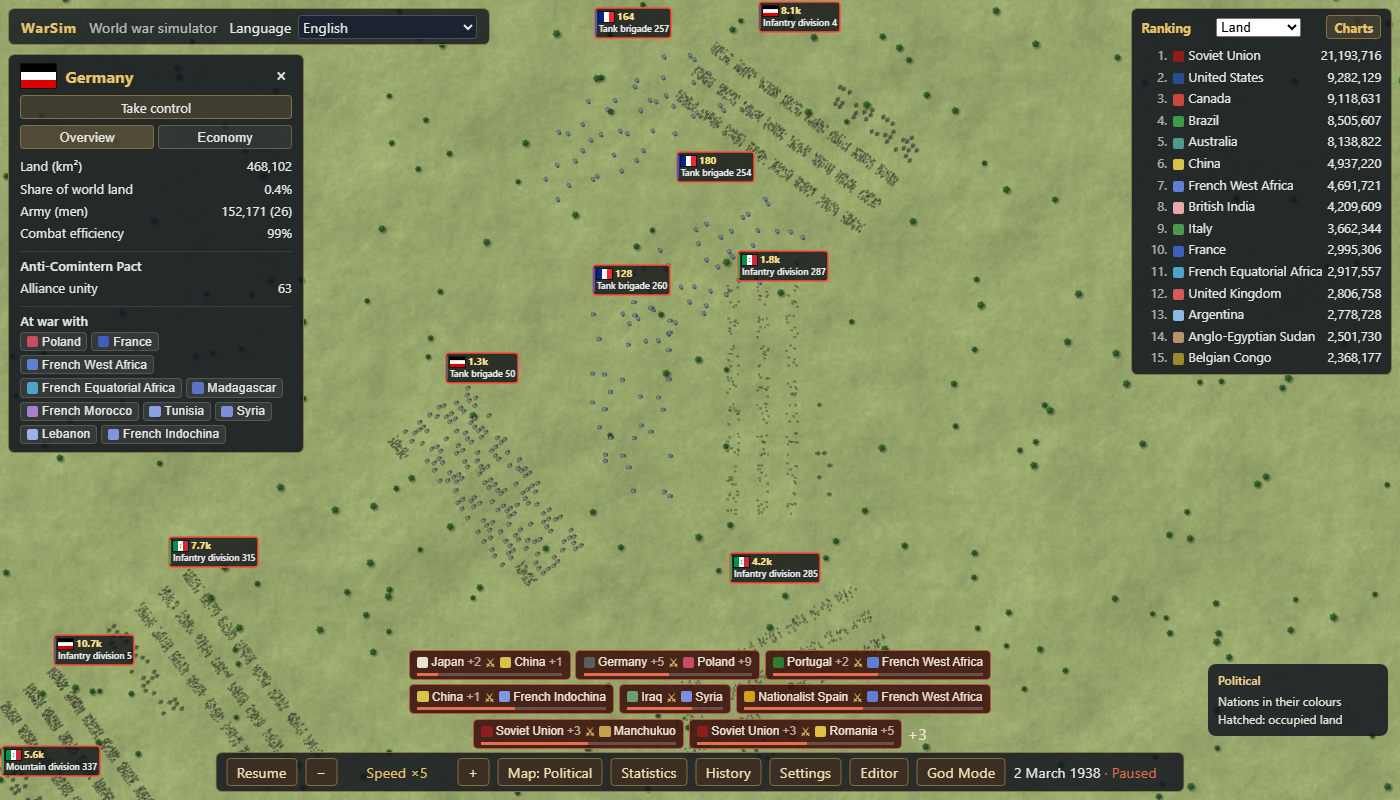
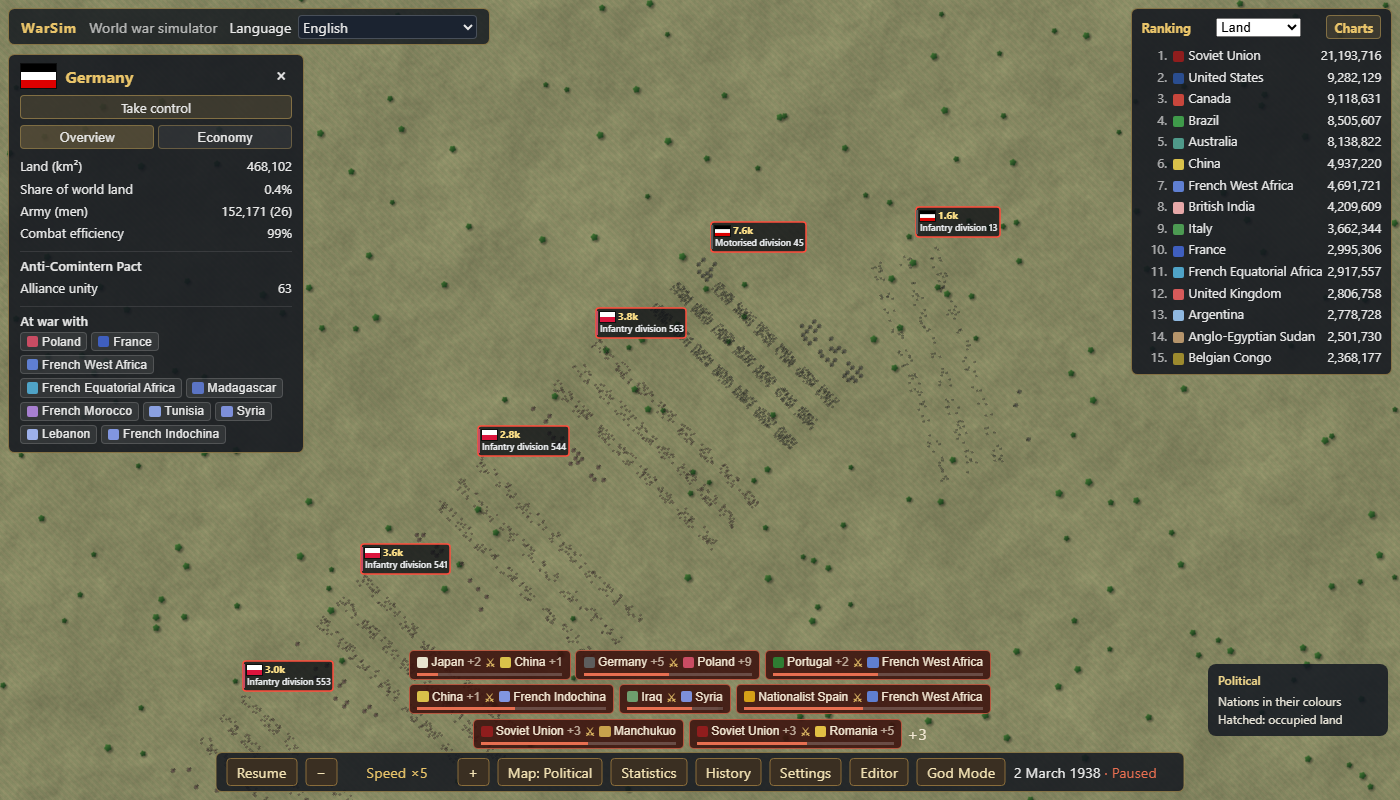
PLAN 2.14f5b1: a war's largest battle is the one whose smaller side has the most men; 2.14f5b split in four (ADR-94)
By the men of both sides, one side had under a tenth of the other in 212 of
752 answers on seed 99 (358 of 1,025 on seed 7). Ranked by the smaller side:
36 and 33. Day 60 of seed 99 now lands on 36,135 against 18,109, Germans
against Poles. The pin did not move.

diff --git a/tests/unit/warBattle.test.ts b/tests/unit/warBattle.test.ts
@@ -11,7 +11,7 @@ import { addDivision, nationId } from '../helpers/sim1938';
 
 // PLAN 2.14e (the critic's R2-B2, "nothing leads to a battle"): a click on a war's banner
 // brings its largest battle into view. This is what the worker answers: the war's largest
-// battle by men, and the point between two of its formations that stand front to front.
+// battle (by the men of its smaller side, ADR-94), and the point between two of its formations that stand front to front.
 //
 // Germany against Poland with the armies of the start taken off the map: the only formations
 // in contact are the divisions put down here, either side of the border. (Divisions of nations
@@ -56,27 +56,28 @@ describe('the largest battle of a war (PLAN 2.14e)', () => {
     expect(largestBattle(w, 999_999)).toBeNull();
   });
 
-  it('is the one with the most men; the point is between two of its formations that face each other; asking changes nothing', () => {
+  it('is the one whose smaller side has the most men (ADR-94); the point is between two of its formations that face each other; asking changes nothing', () => {
     const { s, w, north, south } = game();
-    // North: one division against one. South: two against one, the second German a little further off.
+    // North: one division against one. South: two against two, the second of each a little further off.
     const n1 = addDivision(w, GER, north[0], north[1]);
     const n2 = addDivision(w, POL, north[0] + 1, north[1]);
     const s1 = addDivision(w, GER, south[0], south[1]);
     const s2 = addDivision(w, POL, south[0] + 1, south[1]);
     const s3 = addDivision(w, GER, south[0] - 0.2, south[1] + 0.4);
+    const s4 = addDivision(w, POL, south[0] + 1.2, south[1] - 0.4);
     s.command({ kind: 'declareWar', attacker: GER, defender: POL });
     s.step(2);
     const fc = w.formations.cols;
-    expect([n1, n2, s1, s2, s3].map((f) => fc.engaged[f])).toEqual([1, 1, 1, 1, 1]);
+    expect([n1, n2, s1, s2, s3, s4].map((f) => fc.engaged[f])).toEqual([1, 1, 1, 1, 1, 1]);
     const war = warOf(w, GER, POL);
     const hash = s.hash();
     const before = w.deployedBefore;
     const deployed = w.deployed;
     const b = largestBattle(w, war)!;
     expect(b.war).toBe(war);
-    expect(b.count).toEqual([2, 1]);
-    expect(b.men).toEqual([fc.strength[s1]! + fc.strength[s3]!, fc.strength[s2]!]);
-    // The pair that are each other's nearest: s1 and s2, a cell apart (s3 is 1.26 cells from s2).
+    expect(b.count).toEqual([2, 2]);
+    expect(b.men).toEqual([fc.strength[s1]! + fc.strength[s3]!, fc.strength[s2]! + fc.strength[s4]!]);
+    // The pair that are each other's nearest: s1 and s2, a cell apart (s3 is 1.26 cells from s2, s4 from s1).
     expect(b.formations).toEqual([s1, s2]);
     const da = deployOf(w, s1, 28)!;
     const db = deployOf(w, s2, 28)!;
@@ -92,12 +93,26 @@ describe('the largest battle of a war (PLAN 2.14e)', () => {
     // The world's other wars have no battle: their armies are gone.
     for (const other of w.wars.list) if (other.id !== war) expect(largestBattle(w, other.id)).toBeNull();
 
-    // The northern battle becomes the larger one: two more Polish divisions by it.
+    // Three more Germans in the north: four against one there, more men than the south's two
+    // against two. It is not the larger battle: its smaller side is one division.
+    for (const [dx, dy] of [[-0.2, 0.4], [-0.2, -0.4], [-0.3, 0]] as const) addDivision(w, GER, north[0] + dx, north[1] + dy);
+    s.step(1);
+    const lop = largestBattle(w, war)!;
+    const northMen = fc.strength[n2]!;
+    let northGermans = 0;
+    w.formations.forEach((f) => {
+      if (fc.nation[f] === GER && Math.abs(fc.y[f]! - north[1]) < 2) northGermans += fc.strength[f]!;
+    });
+    expect(northGermans + northMen).toBeGreaterThan(lop.men[0] + lop.men[1]);
+    expect(lop.count).toEqual([2, 2]);
+    expect(lop.formations).toEqual([s1, s2]);
+
+    // Two more Polish divisions by it: four against three, and the smaller side is the larger one's now.
     addDivision(w, POL, north[0] + 1.2, north[1] + 0.5);
     addDivision(w, POL, north[0] + 1.2, north[1] - 0.5);
     s.step(1);
     const c = largestBattle(w, war)!;
-    expect(c.count).toEqual([1, 3]);
+    expect(c.count).toEqual([4, 3]);
     expect(c.formations).toEqual([n1, n2]);
     expect(c.y).toBeCloseTo(north[1], 2);
   });
@@ -116,7 +131,7 @@ describe('the largest battle of a war on a front of 60 days (PLAN 2.14f5a)', () 
     s.command({ kind: 'declareWar', attacker: GER, defender: POL });
     /** Half the view less 50 px, in cells (a cell is 19.57 km). */
     const HALF = { w: (700 - 50) * 20 / 19_570, h: (400 - 50) * 20 / 19_570 };
-    const n = { asked: 0, battles: 0, mutual: 0, oneWay: 0, neither: 0, outside: 0, germanPolish: 0, widest: 0 };
+    const n = { asked: 0, battles: 0, mutual: 0, oneWay: 0, neither: 0, outside: 0, germanPolish: 0, widest: 0, uneven: 0 };
     const outside: string[] = [];
     let last: WarBattleSite | null = null;
     s.step(24 * 60, (w) => {
@@ -133,6 +148,7 @@ describe('the largest battle of a war on a front of 60 days (PLAN 2.14f5a)', () 
         if (!b) continue;
         n.battles++;
         if (ours) n.germanPolish++;
+        if (Math.min(b.men[0], b.men[1]) * 10 < Math.max(b.men[0], b.men[1])) n.uneven++;
         const [a, d] = b.formations;
         const rank = (contacts.get(a) === d ? 1 : 0) + (contacts.get(d) === a ? 1 : 0);
         if (rank === 2) n.mutual++;
@@ -161,11 +177,14 @@ describe('the largest battle of a war on a front of 60 days (PLAN 2.14f5a)', () 
     console.log(
       `60 days of Germany against Poland (seed 99), every six hours, every war: asked ${n.asked} times, a battle ${n.battles} times (${n.germanPolish} of Germany against Poland); ` +
         `the two named are each other's nearest enemy in ${n.mutual}, one the other's in ${n.oneWay}, neither in ${n.neither}; ` +
-        `their blocks at most ${(n.widest * 19.57).toFixed(1)} km apart; not whole in the view ${n.outside} times`,
+        `their blocks at most ${(n.widest * 19.57).toFixed(1)} km apart; not whole in the view ${n.outside} times; ` +
+        `one side under a tenth of the other in ${n.uneven}`,
     );
     expect(outside).toEqual([]);
     expect(n.battles).toBeGreaterThan(500);
     expect(n.germanPolish).toBeGreaterThan(200);
+    // The largest battle is one of two sides (ADR-94): by the men of both it was 212 of 752 with one side under a tenth of the other, 36 by the smaller side's.
+    expect(n.uneven).toBeLessThan(n.battles / 10);
     // The front is there on the last day: the banner of this war leads somewhere.
     expect(last).not.toBeNull();
   });

diff --git a/src/sim/systems/warBattle.ts b/src/sim/systems/warBattle.ts
@@ -5,7 +5,7 @@
  * Battles are derived each hour and not kept (`findBattles`): here they are worked out again
  * for one war from the state, the formations' `engaged` flags and places. A battle of the war
  * is a set of formations of its two sides joined by contacts between the sides (within
- * CONTACT_CELLS); the largest is the one with the most men. Reads only: nothing of the state
+ * CONTACT_CELLS); the largest is the one whose smaller side has the most men (ADR-94). Reads only: nothing of the state
  * and nothing of the hour's deployments changes (`deployOf` fills its cache, as the snapshot
  * does).
  */
@@ -15,7 +15,7 @@ import { cellDist, CONTACT_CELLS, contactsOf, deployOf, elementIndex, slotCount 
 
 export type WarBattleSite = Omit<WarBattle, 'tick'>;
 
-/** The largest battle of war `warId` (by men; of equals, the one with the lowest formation id), or null when none of its formations are in contact across its sides. */
+/** The largest battle of war `warId` (by the men of its smaller side, then of both; of equals, the one with the lowest formation id), or null when none of its formations are in contact across its sides. */
 export function largestBattle(world: World, warId: number): WarBattleSite | null {
   const war = world.wars.list.find((w) => w.id === warId);
   if (!war) return null;
@@ -47,11 +47,20 @@ export function largestBattle(world: World, warId: number): WarBattleSite | null
     }
   }
   if (pairs.length === 0) return null;
-  // Men by battle (its root is its lowest formation id).
-  const men = new Map<number, number>();
-  for (const f of parent.keys()) men.set(find(f), (men.get(find(f)) ?? 0) + c.strength[f]!);
+  // Men by battle and side (a battle's root is its lowest formation id). A battle is as large as its smaller side (ADR-94).
+  const men = new Map<number, [number, number]>();
+  for (const f of parent.keys()) {
+    const m = men.get(find(f)) ?? [0, 0];
+    m[sideOf(c.nation[f]!)]! += c.strength[f]!;
+    men.set(find(f), m);
+  }
+  const larger = (r: number, than: number): boolean => {
+    const [a, b] = [men.get(r)!, men.get(than)!];
+    const d = Math.min(a[0], a[1]) - Math.min(b[0], b[1]) || a[0] + a[1] - b[0] - b[1];
+    return d > 0 || (d === 0 && r < than);
+  };
   let root = -1;
-  for (const [r, m] of men) if (root < 0 || m > men.get(root)! || (m === men.get(root)! && r < root)) root = r;
+  for (const r of men.keys()) if (root < 0 || larger(r, root)) root = r;
   const count: [number, number] = [0, 0];
   const strength: [number, number] = [0, 0];
   for (const f of parent.keys()) {

diff --git a/tests/e2e/toBattle1938.spec.ts b/tests/e2e/toBattle1938.spec.ts
@@ -219,6 +219,8 @@ test('after 60 days of Germany against Poland the banner leads to two formations
   expect(seen.battle.war).toBe(war);
   // A battle of the front, not a pair: more than two formations in it.
   expect(seen.battle.count[0] + seen.battle.count[1]).toBeGreaterThan(2);
+  // And one of two sides (ADR-94): by the men of both it was 67,984 against 472 on this day.
+  expect(Math.min(...seen.battle.men) * 10).toBeGreaterThan(Math.max(...seen.battle.men));
   expect(seen.cam.cx).toBeCloseTo(seen.battle.x, 6);
   expect(seen.cam.cy).toBeCloseTo(seen.battle.y, 6);
   expect(seen.m).toBeCloseTo(20, 1);

diff --git a/PLAN.md b/PLAN.md
@@ -1964,16 +1964,37 @@ quick sweep as a smoke test.
         a battle with no two that are each other's nearest has no test of its own and the
         camera does not widen for it; a pair across a strait (blocks on their shores) was
         not looked for.
-      - [ ] 2.14f5b Two decisions, each with an ADR: whether the jump becomes a flight (the
-        camera has an eased zoom and no eased pan, ADR-91), and whether a banner shows that
-        its war has a battle (ADR-91: not sent with the statistics; `contactsOf` is kept
-        for the hour, so one pass over it may do). Built or "not now, because".
-        From 2.14f5a (ADR-93), for the same ADRs: the banner names the two leaders and the
-        click may land on their allies (Germany and Poland: Italians against the French);
-        count how many of the 752 landings have no leader's formation, and decide whether
-        the battle of a leader comes first or the banner says whose battle it leads to.
-        And "largest by men" was 67,984 against 472: decide whether the smaller side's men
-        count instead, or say why not.
+      - [ ] 2.14f5b Four decisions, each with an ADR. **Split 2026-10-05** in four, one cause
+        a commit:
+        - [x] 2.14f5b1 What "largest" means: 67,984 against 472 was the largest battle by
+          men. Decide whether the smaller side's men count instead, or say why not.
+          Done 2026-10-05 (ADR-94). *Measured* (a probe not kept; seeds 99 and 7, 752 and
+          1,025 answers): by the men of both, one side was under a tenth of the other in 212
+          and 358 answers, under a hundredth in 53 and 103. *Decided and built:* the largest
+          battle is the one whose smaller side has the most men, then by the men of both,
+          then the lowest id. Under a tenth now: 36 and 33. *Tests:* unit, the second of
+          `warBattle.test.ts` restated (four against one with more men does not beat two
+          against two; four against three does), seen to fail with the old rule; the 60-day
+          test asks for under a tenth of the answers so uneven (36 of 752). e2e, the second
+          of `toBattle1938`: day 60 lands on 36,135 against 18,109, German motorised
+          division 45 and Polish infantry division 563. Picture looked at. The pin did not
+          move.
+        - [ ] 2.14f5b2 Whose battle the banner leads to. The banner names the two leaders
+          and the click may land on their allies. *Measured 2026-10-05 with 2.14f5b1* (the
+          rule of ADR-94; seed 99 and seed 7): neither of the two formations is a leader's
+          in 46 of 752 and 41 of 1,025 landings, one of them in 96 and 349, both in 610 and
+          635. In every one of the 1,777 answers the war had, somewhere, a pair of each
+          other's nearest with a leader's formation in it. Decide whether a leader's battle
+          or a leader's pair comes first, or the banner says whose battle it leads to.
+          AT: unit, on the 60-day front: the count of landings with no leader's formation,
+          at the limit decided; failing first if the rule changes.
+        - [ ] 2.14f5b3 Whether a banner shows that its war has a battle (ADR-91: not sent
+          with the statistics; `contactsOf` is kept for the hour, so one pass over it may
+          do). *Measured 2026-10-05:* one pass over `contactsOf` (a formation and its
+          nearest enemy on the two sides of the war) agreed with "`largestBattle` is not
+          null" in all 1,708 and 1,796 askings. Built or "not now, because".
+        - [ ] 2.14f5b4 Whether the jump becomes a flight (the camera has an eased zoom and
+          no eased pan, ADR-91). Built or "not now, because".
       - [ ] 2.14f5c How far a block stands from its own formation. From 2.14f4: the longest
         hop of a block in the 60 days was 50 km, more than contact (29 km). Decide, with an
         ADR, whether `deployOf` limits it. *Measured 2026-10-05 with 2.14f5a* (seed 99, days

diff --git a/DECISIONS.md b/DECISIONS.md
@@ -167,6 +167,46 @@ level directly; hillshade at higher zoom adds procedural detail (SPEC §8 T2/T3)
 runtime. Regenerating assets is idempotent (`npm run data -- --check` fails on drift), and
 `tests/unit/data-manifest.test.ts` verifies sha256, sizes, known places and pyramid consistency.
 
+### ADR-94 · 2026-10-05 · accepted — A war's largest battle is the one whose smaller side has the most men (PLAN 2.14f5b1)
+
+- **Context:** ADR-91 sends a click on a war's banner to its largest battle, "by men": the
+  men of both sides. ADR-93 saw where that leads on day 60 of seed 99: 67,984 men against
+  472, eleven formations against three nearly spent ones.
+- **Measured** (a probe not kept; 60 days of Germany against Poland and the wars the AI
+  declares, every six hours, every war; seed 99: 752 answers, seed 7: 1,025): by the men of
+  both, one side had under a tenth of the other in 212 and 358 answers (28% and 35%), under
+  a hundredth in 53 and 103. The median of smaller to larger was 0.28 and 0.19. A war had 8
+  battles at a time in the mean (6,314 and 7,988 in all). Ranked by the smaller side, another
+  battle comes first in 319 and 545 answers, and under a tenth are 36 and 33 (5% and 3%),
+  under a hundredth 3 and 0.
+- **Decision:** the largest battle is the one whose smaller side has the most men; of
+  equals, the one with more men on both sides; of equals, the lowest formation id
+  (`largestBattle`). A battle is a fight of two sides, and what the click should show is
+  where both stand in strength: a large army over a remnant shows one side's figures and a
+  few of the other's. The pair inside the battle is chosen as before (ADR-91, ADR-93).
+- **Not chosen:** the most even battle (two battalions of equal strength would win over two
+  armies); the product of the sides (it says the same as the smaller side where it matters
+  and needs a second sentence to explain).
+- **Tests:** unit, `warBattle.test.ts`. The second test is restated: two against two in the
+  south stays the largest when four stand against one in the north with more men in all,
+  and gives way when the north is four against three. Seen to fail with the old rule at
+  the four against one. The 60-day test counts the answers with one side under a tenth: 36
+  of 752, and asks for under a tenth of them (212 before). With seed 7 in its place, once,
+  it passes too. e2e, the second test of `toBattle1938`: the landing of day 60 has no side
+  under a tenth of the other.
+- **On the screen** (seed 99, day 60): 6 formations against 6, 36,135 men against 18,109;
+  the camera lands between the German motorised division 45 and the Polish infantry
+  division 563. Picture: `docs/evidence/2.14/to-battle-front.png` (shot again).
+- **The pin:** not moved; the answer reads the state and writes none of it.
+- **Not done:**
+  - Of the 752 the pair is still each other's nearest in all, and whole in the view; that
+    was measured again. The widest pair of blocks reads 3.6 km as before; whether it is
+    the same pair was not checked.
+  - Whose battle it is, when neither of the two formations is a leader's: 46 of 752 and 41
+    of 1,025 with this rule (38 and 3 before). PLAN 2.14f5b2.
+  - The banner's tooltip still says "to its largest battle" and does not say what largest
+    means.
+
 ### ADR-93 · 2026-10-05 · accepted — On a real front the banner's pair is front to front: the rule of ADR-91 stays (PLAN 2.14f5a)
 
 - **Context:** ADR-91 sends the camera between the blocks of two formations of the war's

diff --git a/PROGRESS.md b/PROGRESS.md
@@ -5577,3 +5577,35 @@ No rule changed and nothing on screen changed. One task came out of it.
 - **Not done:** the battle with no two each other's nearest has no test; a pair across a
   strait not looked for; `battleView` not run (nothing it draws changed).
 - **Next:** PLAN 2.14f5b, the flight and the banner's sign of a battle.
+
+## 2026-10-05 — PLAN 2.14f5b1: the largest battle is the one whose smaller side is largest; 2.14f5b split in four
+
+- **The split:** 2.14f5b held four decisions: what largest means (b1), whose battle (b2),
+  the banner's sign of a battle (b3), the flight (b4).
+- **Measured first** (a probe not kept; seeds 99 and 7, 60 days, every six hours, every war;
+  752 and 1,025 answers): by the men of both sides, one side had under a tenth of the
+  other in 212 and 358 answers, under a hundredth in 53 and 103. The 67,984 against 472 of
+  ADR-93 was not an outlier.
+- **Decided and built (ADR-94):** `largestBattle` ranks a war's battles by the men of the
+  smaller side, then of both, then the lowest id. Under a tenth now: 36 and 33.
+- **Tests:** unit, the second of `warBattle.test.ts` restated to the new rule (the south is
+  two against two now; four against one in the north with more men does not win, four
+  against three does). Seen to fail with the old rule. The 60-day test counts the uneven
+  answers and asks for under a tenth of all. e2e, an assertion in the second of
+  `toBattle1938`. 680 unit tests, as before.
+- **Picture looked at** (`to-battle-front.png`, shot again): German motorised division 45
+  against Polish infantry division 563, four more Polish divisions along the line; 36,135
+  men against 18,109. The banner of Germany against Poland now lands on Germans and Poles.
+- **For 2.14f5b2 and b3, measured in the same probe:** no leader's formation in the pair in
+  46 of 752 and 41 of 1,025 landings (38 and 3 with the old rule); a pass over `contactsOf`
+  says "this war has a battle" as `largestBattle` does, 1,708 of 1,708 and 1,796 of 1,796.
+  In the PLAN.
+- **A gotcha:** a division added beside a fight an hour old is stronger than the two that
+  fought, and a pair of each other's nearest with a new one in it takes the camera. The
+  test's third German stands where it is nobody's nearest.
+- **Again:** a Git Bash heredoc of Python with backticks in it did not parse; a file did.
+- **The pin:** not moved; the answer writes nothing. **Run by hand:** `toBattle` (2): green.
+- **Not done:** the widest pair of blocks under the new rule not checked apart from "whole
+  in the view"; seed 7 run once through the kept test, not kept; the tooltip does not say
+  what largest means; `battleView` and `tags` not run (nothing they draw changed).
+- **Next:** PLAN 2.14f5b2, whose battle the banner leads to.
